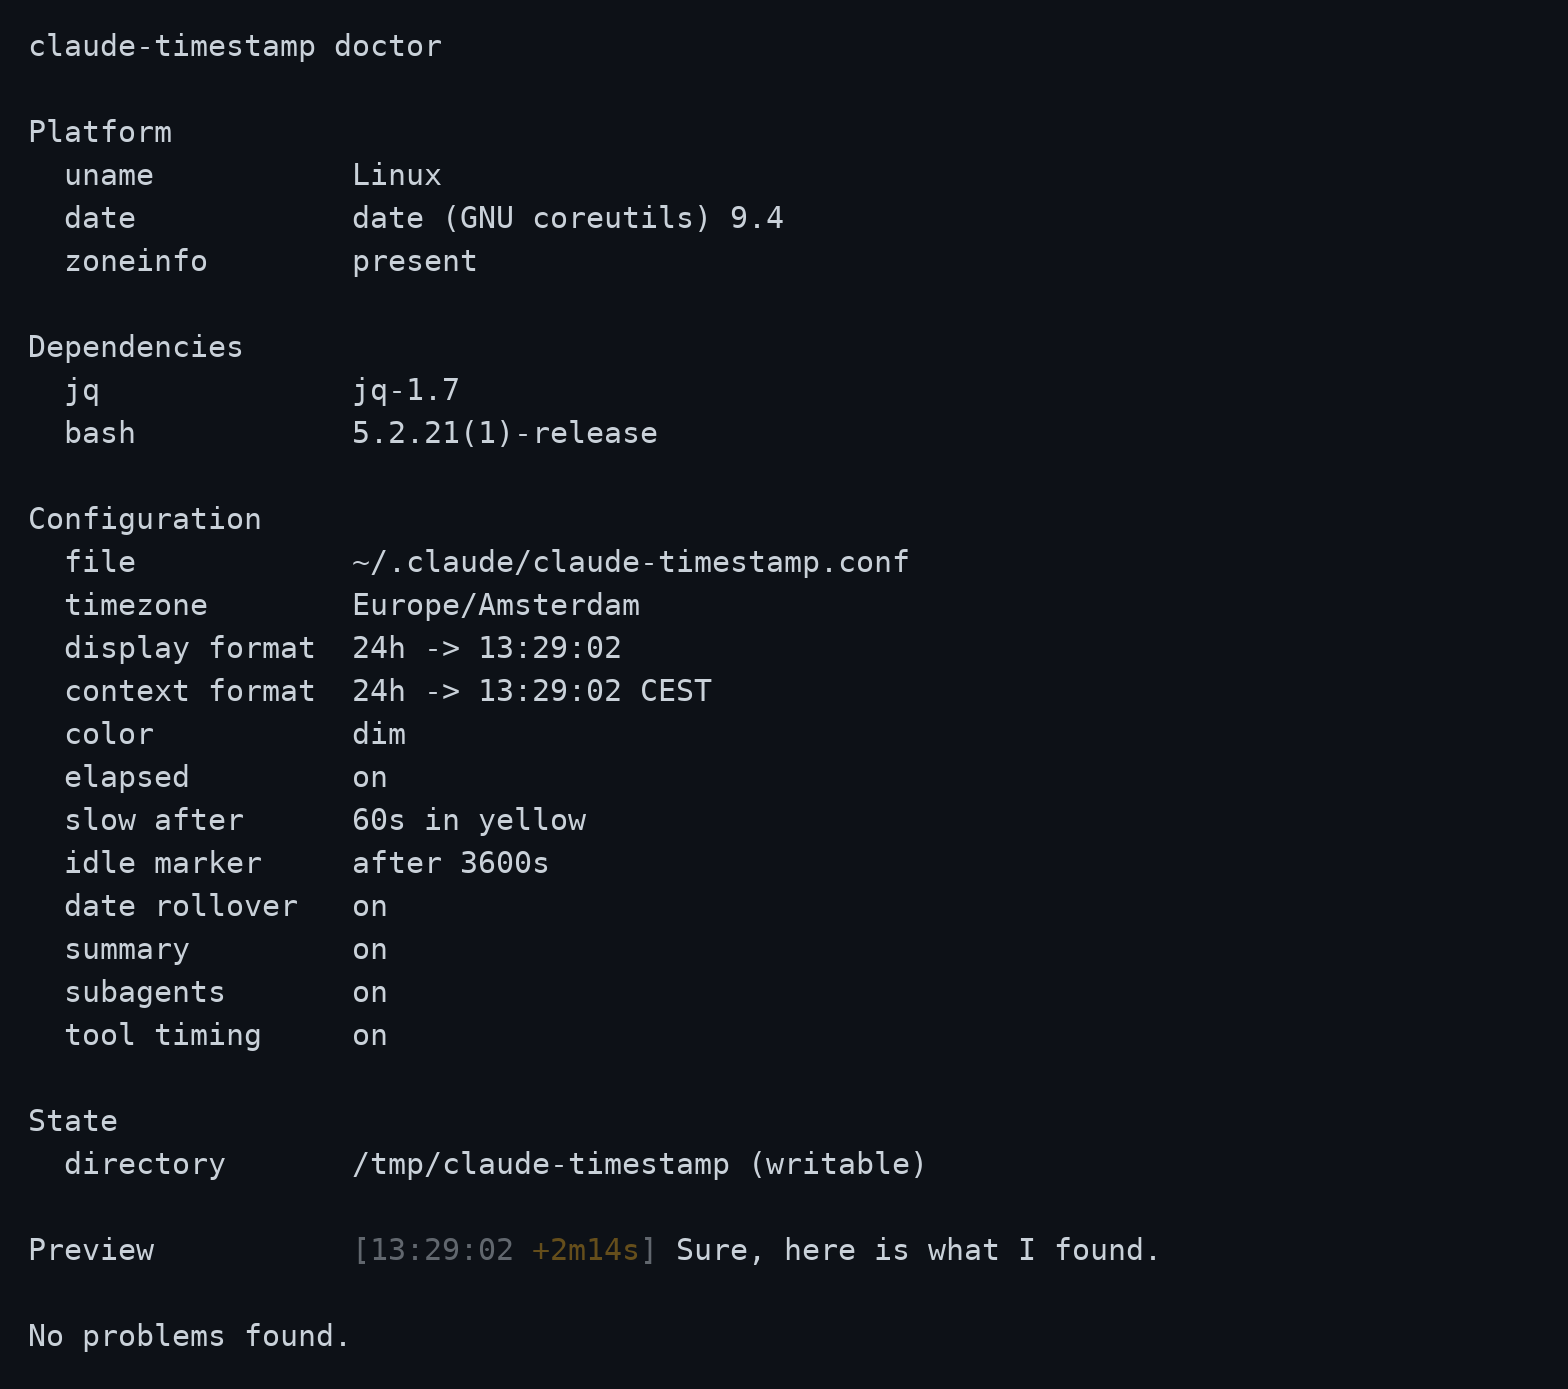
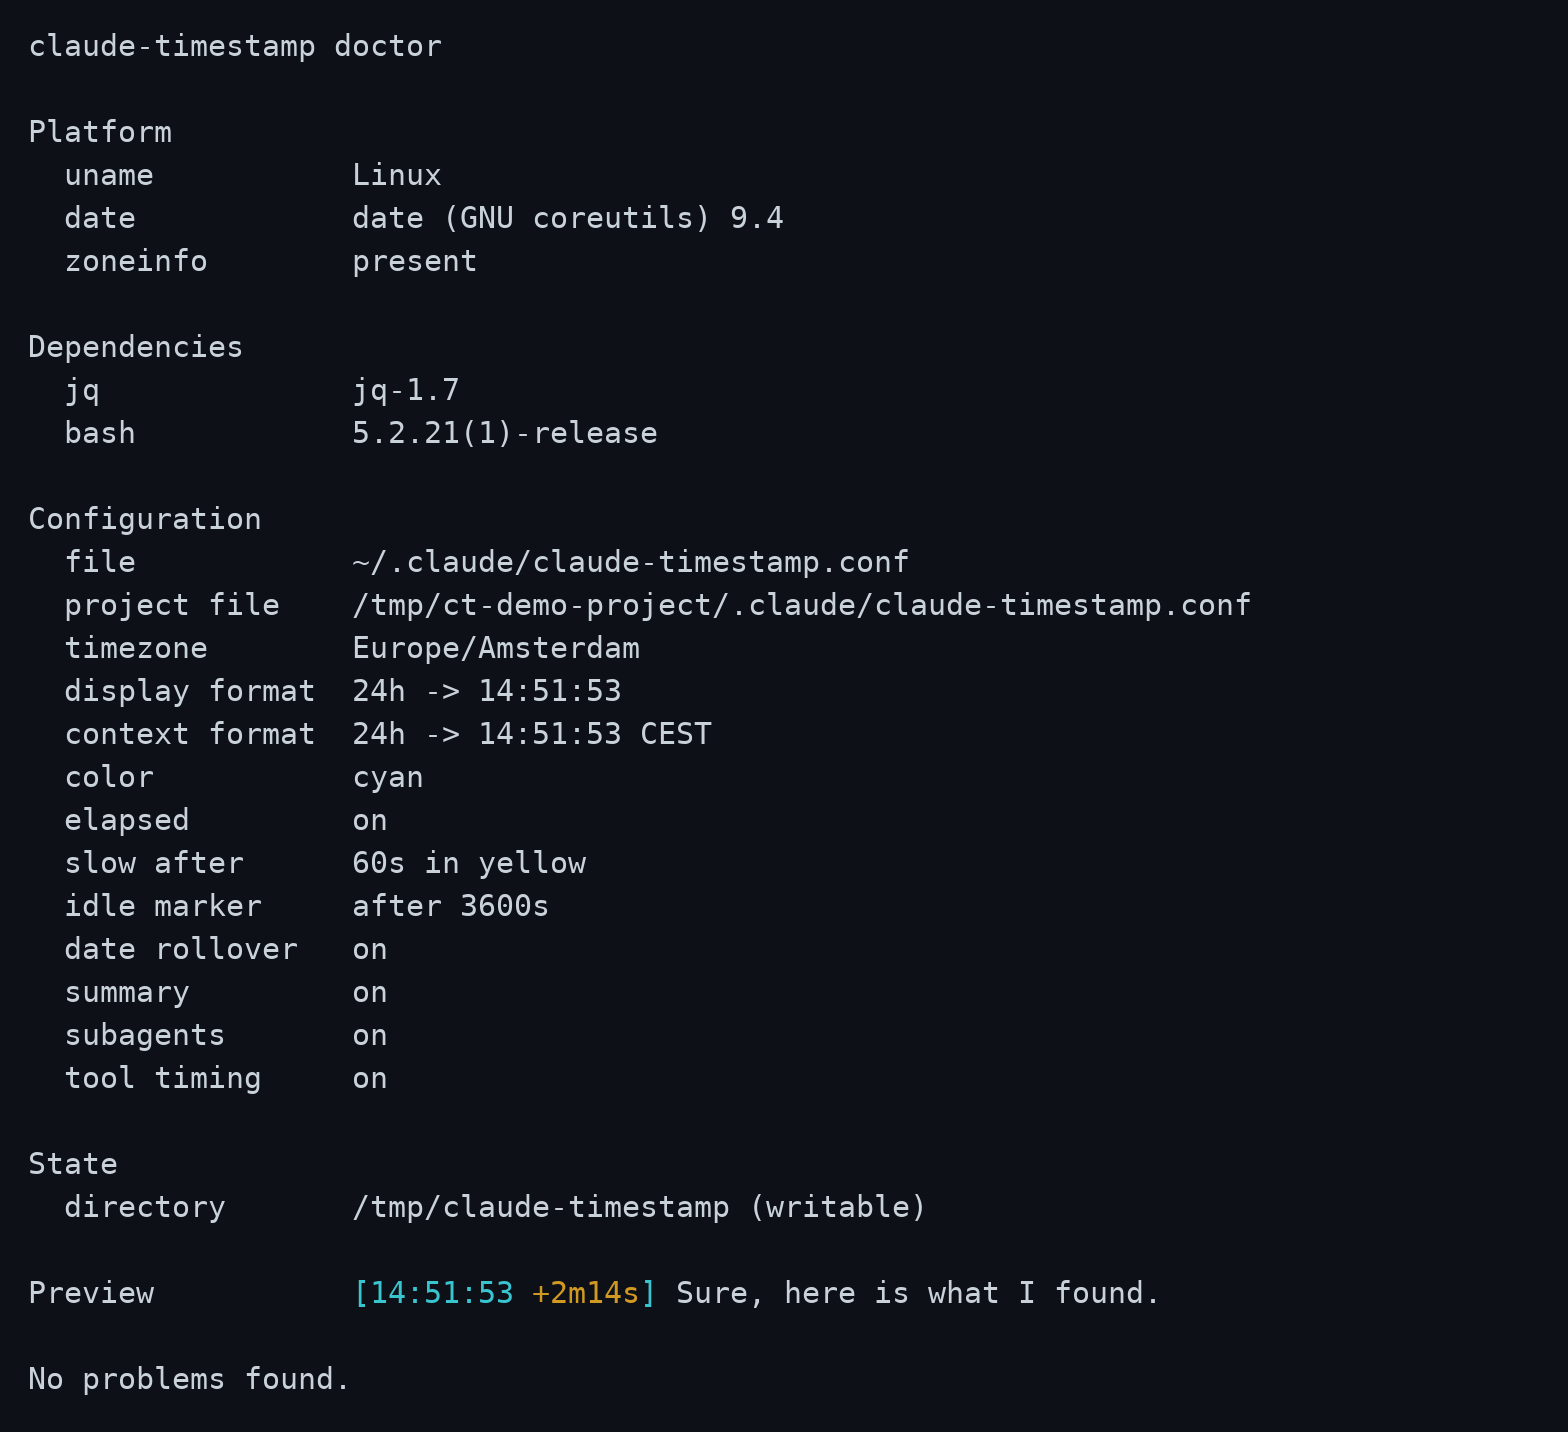
feat: let a project carry its own settings
A repository can now put .claude/claude-timestamp.conf beside its code
and override individual settings, layered over the user's own. Only the
keys it names are overridden, so pinning a timezone for one project does
not freeze everything else at today's values. --project writes such a
file and keeps it to what was actually named.

The file is found by walking up from the directory the conversation is
about, which every hook receives in its payload. That is passed
explicitly rather than read from $PWD, because a hook does not
necessarily run from the directory the conversation is about. The walk
stops at $HOME so the user's own config is never mistaken for a
project's, at the filesystem root, and after a bounded number of steps
so a symlink loop cannot hang a hook.

Two bugs found while building it, both now covered by tests:

Fields were pulled out of the payload as tab separated values, but tab
is IFS whitespace, so bash collapsed runs of it and dropped empty
fields. An absent agent_id shifted cwd into its place, which meant every
payload without a subagent silently lost its project config while every
payload with one worked. They are split on the unit separator now, which
is not whitespace and cannot appear in these values.

The user config path was resolved when the library was sourced, so a
caller that changed HOME afterwards got a stale path. It is resolved
when asked instead.

diff --git a/tools/screenshots/screenshots.py b/tools/screenshots/screenshots.py
@@ -262,17 +262,23 @@ def shot_wizard():
 
 
 def shot_doctor():
-    """The real doctor output, run against a generic home directory."""
+    """The real doctor output, run against a generic home and a project."""
     work = WORK / "doctor"
     (work / "home" / ".claude").mkdir(parents=True, exist_ok=True)
     (work / "home" / ".claude" / "claude-timestamp.conf").write_text(DOCTOR_CONFIG)
+    # A project config too, so the shot shows the layering rather than leaving
+    # a reader to wonder what the project line means. Deliberately at a short
+    # path: the doctor prints it in full, and a long temp path wraps the line.
+    project = Path("/tmp/ct-demo-project")
+    (project / ".claude").mkdir(parents=True, exist_ok=True)
+    (project / ".claude" / "claude-timestamp.conf").write_text("COLOR=cyan\n")
 
     env = dict(os.environ)
     env.pop("CLAUDE_TIMESTAMP_CONFIG", None)
     env["HOME"] = str(work / "home")
     proc = subprocess.run(
         ["bash", str(SCRIPTS / "setup.sh"), "--doctor"],
-        capture_output=True, env=env,
+        capture_output=True, env=env, cwd=str(project),
     )
     raw = proc.stdout + proc.stderr
     (work / "doctor.raw").write_bytes(raw)

diff --git a/README.md b/README.md
@@ -86,6 +86,24 @@ setup.sh --tz=Asia/Tokyo --display=short --color=dim --slow-after=30
 
 Every flag is optional and anything you leave out keeps its current value.
 
+### Project settings
+
+A project can carry its own settings in `.claude/claude-timestamp.conf`,
+layered over yours. Only the keys it names are overridden, so a repository can
+pin one thing and leave the rest following your own configuration:
+
+```bash
+cd some-project
+bash "$CLAUDE_PLUGIN_ROOT/hooks/scripts/setup.sh" --project --tz=UTC
+```
+
+That writes only `TZ=UTC`. Everything else still comes from your account. The
+file is found by walking up from the directory the conversation is about, so it
+applies from subdirectories too, and the search stops at your home directory so
+your own config is never mistaken for a project one.
+
+Which files are in play is shown by `--doctor` and `--show`.
+
 ### Settings
 
 Configuration lives in `~/.claude/claude-timestamp.conf` as `KEY=value`. It is
@@ -179,7 +197,7 @@ to whole seconds and the call counts carry the signal.
 ## Development
 
 ```bash
-bash tests/run.sh                                    # 193 assertions, no framework
+bash tests/run.sh                                    # 215 assertions, no framework
 shellcheck -S style -e SC1091 hooks/scripts/**/*.sh  # clean
 bash tools/check-docs.sh                             # README against the code
 ```
